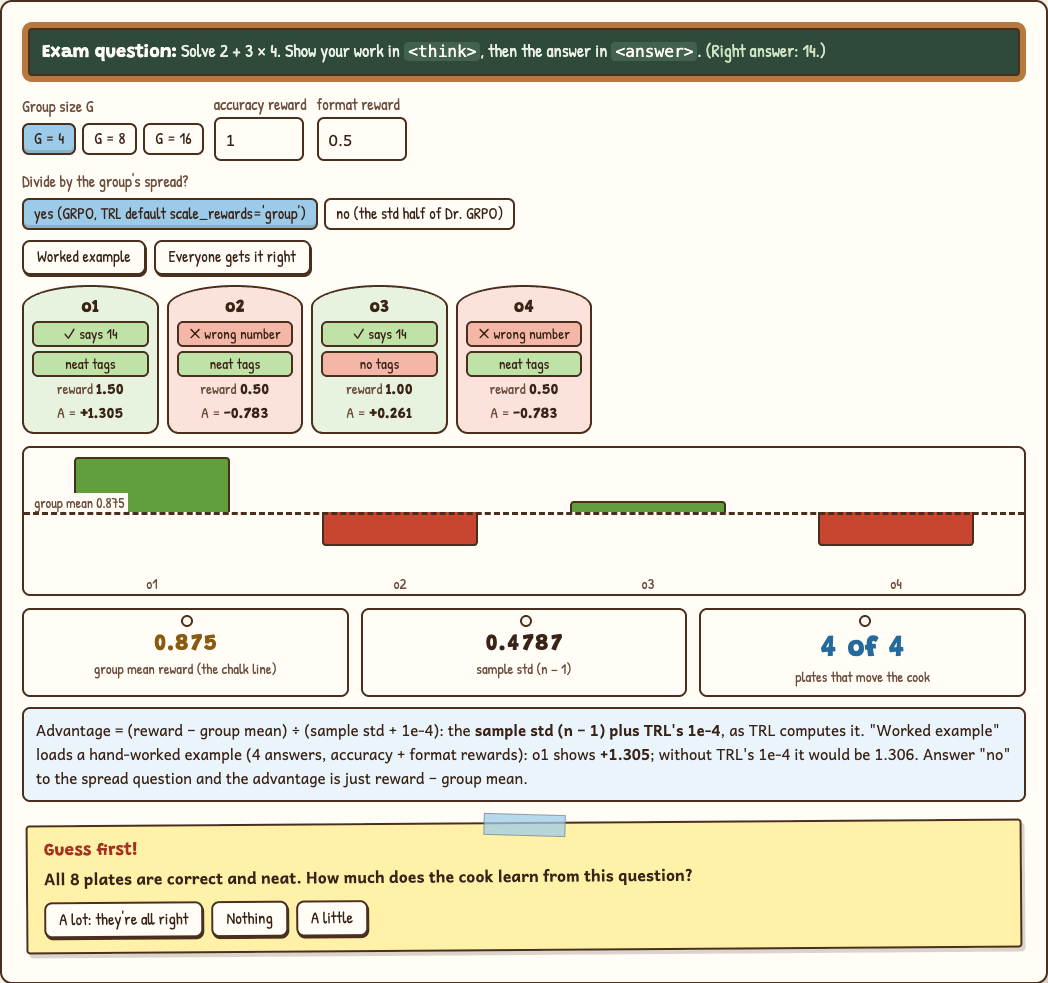
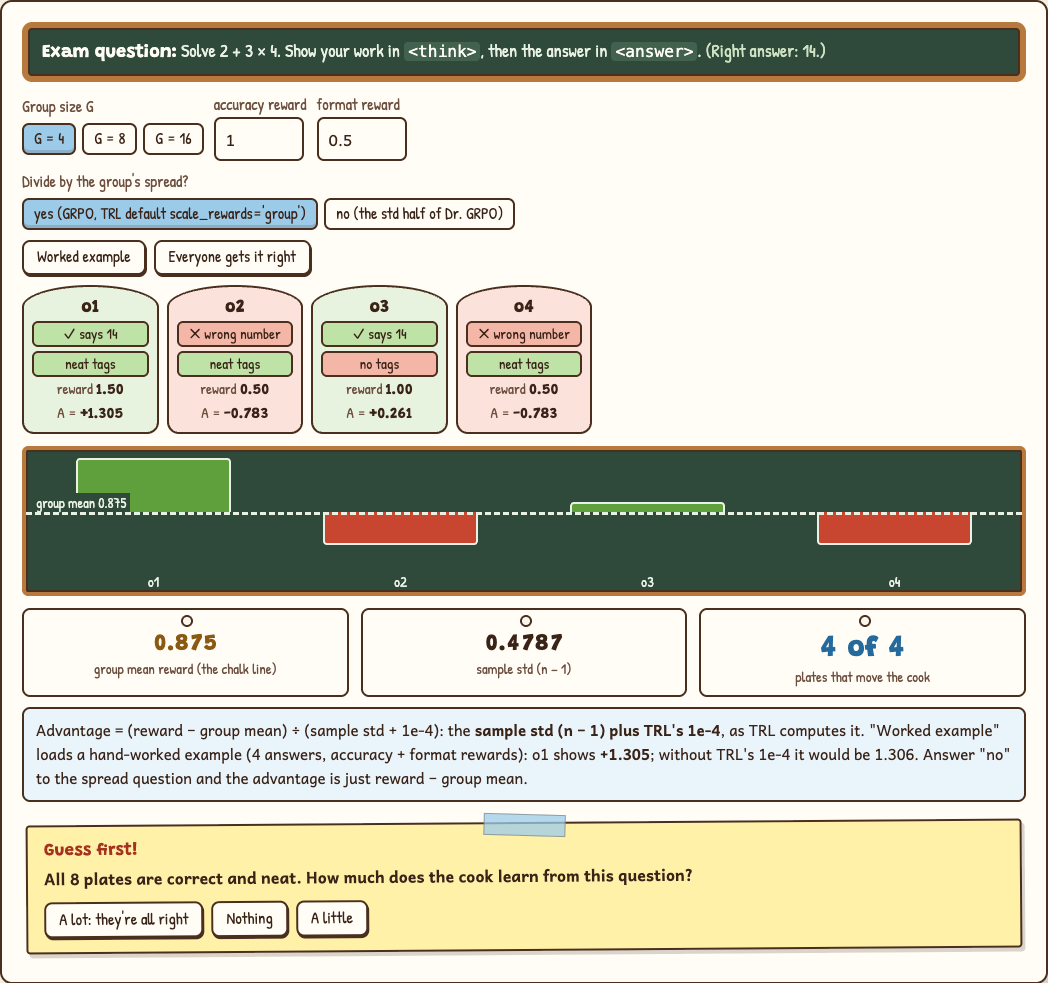
Design pass: lit floors, a chalkboard chart, and a diploma
Step 0's cutaway now answers the widget: placing a signal turns that
floor's painted sign yellow (the sign is found by geometry, so the art
files are untouched). Step 6's advantage chart is drawn as the exam
hall's chalkboard: wood frame, chalk line, chalk labels. And the school
issues a diploma once all three clients are hired and the field test
scores 6/8 or better, dated locally, printable on its own page.

Changed region(s): [[0.0, 0.4273, 0.9771, 0.6104]]

diff --git a/js/app.js b/js/app.js
@@ -16,7 +16,9 @@
 
   /* ---------------- persistence (never required) ---------------- */
   var KEY = "finishing-school-v1";
-  var store = { predicts: {}, touched: {}, said: {}, briefs: {}, ft: {}, ladder: {} };
+  var store = { predicts: {}, touched: {}, said: {}, briefs: {}, ft: {}, ladder: {}, meta: {} };
+  var MONTHS = ["January", "February", "March", "April", "May", "June", "July", "August", "September", "October", "November", "December"];
+  function longDate(d) { return ("0" + d.getDate()).slice(-2) + " " + MONTHS[d.getMonth()] + " " + d.getFullYear(); }
   try { var raw = localStorage.getItem(KEY); if (raw) { var got = JSON.parse(raw); if (got && typeof got === "object") Object.keys(store).forEach(function (k) { if (got[k] && typeof got[k] === "object") store[k] = got[k]; }); } } catch (e) {}
   function save() { try { localStorage.setItem(KEY, JSON.stringify(store)); } catch (e) {} }
 
@@ -61,6 +63,7 @@
     try { history.replaceState(null, "", "#" + id); } catch (e) {}
     window.scrollTo(0, 0);
     if (id === "s3") s3fitLabels();
+    if (id === "s0") s0lightFloors();
   }
 
   /* ---------------- engagement: predict + say ---------------- */
@@ -163,6 +166,29 @@
     { id: "sft", floor: "1st floor", name: "Copying Class · SFT", need: "The copying class needs a finished answer to copy, word for word." }
   ];
   var s0 = { sel: null };
+  /* The cutaway answers the widget: when a floor is lit, its painted sign in the scene turns
+     school-bus yellow. The sign is found by geometry (the smallest rect around the floor's name),
+     so the art files stay untouched. */
+  var FLOOR_TEXT = { grpo: "EXAM HALL", dpo: "TASTING ROOM", sft: "COPYING CLASS" };
+  function s0lightFloors() {
+    var svg = document.querySelector("#s0 .scene svg"); if (!svg) return;
+    var texts = qa("text", svg), rects = qa("rect", svg);
+    Object.keys(FLOOR_TEXT).forEach(function (id) {
+      var txt = texts.filter(function (t) { return t.textContent === FLOOR_TEXT[id]; })[0]; if (!txt) return;
+      if (!txt._sign) {
+        var tb = txt.getBoundingClientRect(); if (!tb.width) return;
+        var cx = tb.left + tb.width / 2, cy = tb.top + tb.height / 2, area = Infinity, best = null;
+        rects.forEach(function (r) {
+          var b = r.getBoundingClientRect();
+          if (cx >= b.left && cx <= b.right && cy >= b.top && cy <= b.bottom && b.width * b.height < area && b.width < tb.width * 2.5) { area = b.width * b.height; best = r; }
+        });
+        txt._sign = best || false;
+      }
+      var lit = !!store.ladder[id];
+      txt.classList.toggle("floor-lit", lit);
+      if (txt._sign) txt._sign.classList.toggle("floor-lit", lit);
+    });
+  }
   function s0render() {
     var sigs = $("s0sigs"), rungs = $("s0rungs");
     sigs.innerHTML = ""; rungs.innerHTML = "";
@@ -203,7 +229,7 @@
     var r = RUNGS.filter(function (x) { return x.id === rungId; })[0];
     touch("s0");
     if (sg.rung === rungId) {
-      store.ladder[rungId] = sg.id; save(); s0.sel = null; s0render();
+      store.ladder[rungId] = sg.id; save(); s0.sel = null; s0render(); s0lightFloors();
       var n = Object.keys(store.ladder).length;
       out.innerHTML = n < 3 ? "<b>Lit.</b> " + r.name + " learns from " + sg.label + ". " + (3 - n) + " to go."
         : "<b>All three floors lit.</b> Copying needs answers, comparing needs pairs, the exam needs a score for each answer (here, a checker). A real model usually climbs them in order: SFT first, then DPO or GRPO on top of the SFT checkpoint.";
@@ -262,8 +288,7 @@
         ? "You are a helpful AI assistant named SmolLM, trained by Hugging Face. Your role as an assistant involves thoroughly exploring questions through a systematic thinking process before providing the final precise and accurate solutions. … (the template's long reasoning persona)"
         : "You are a helpful AI assistant named SmolLM, trained by Hugging Face.";
       /* strftime_now("%d %B %Y"), as the template prints it. The cutoff line is a constant in the template. */
-      var d = new Date(), MON = ["January", "February", "March", "April", "May", "June", "July", "August", "September", "October", "November", "December"];
-      var today = ("0" + d.getDate()).slice(-2) + " " + MON[d.getMonth()] + " " + d.getFullYear();
+      var today = longDate(new Date());
       P.push(T("<|im_start|>", "sp"), T("system", "role"), BR,
         T("## Metadata", "tpl"), BR, T("Knowledge Cutoff Date: June 2025", "tpl"), BR, T("Today Date: " + today, "tpl"), BR,
         T("Reasoning Mode: " + (mode.on ? "/think" : "/no_think"), "think"), BR, BR,
@@ -668,6 +693,19 @@
     var done = capAllDone();
     $("capstamp").hidden = !done;
     if (done && !store.said.cap) { store.said.cap = true; save(); buildNav(); markNav(); }
+    checkDiploma();
+  }
+  /* The diploma: all three clients hired and a field test of 6/8 or better. Dated the first time it's earned. */
+  function checkDiploma() {
+    var card = $("dipcard"); if (!card) return;
+    var ok = capAllDone() && (store.meta.ftBest || 0) >= 6;
+    if (ok && !store.meta.diploma) { var n = new Date(); store.meta.diploma = n.getFullYear() + "-" + ("0" + (n.getMonth() + 1)).slice(-2) + "-" + ("0" + n.getDate()).slice(-2); save(); }   // local date, not UTC
+    card.hidden = !ok;
+    if (ok) {
+      var p = String(store.meta.diploma).split("-"), d = new Date(+p[0], +p[1] - 1, +p[2]);
+      $("dipdate").textContent = "Awarded " + longDate(d);
+      $("dipscore").textContent = "Field test " + store.meta.ftBest + " / " + FT.length;
+    }
   }
   function capCard(b) {
     var st = capState[b.id] = { method: "sft", model: "smollm3-3b", lora: false, machine: "t4", beta: 4, G: 8, data: "all" };
@@ -764,10 +802,15 @@
         if (ok) score++;
         $("ftr" + i).innerHTML = v === "" ? '<span class="muted">skipped</span>' : ok ? '<span class="ok">✓ right</span>' : '<span class="bad">✗</span> <span class="muted">answer: ' + esc(truth) + "</span>";
       });
+      store.meta.ftBest = Math.max(store.meta.ftBest || 0, score);
       save();
       $("ftscore").innerHTML = "<b>" + score + " / " + FT.length + "</b>" + (score === FT.length ? " · you're finished." : score >= 6 ? " · nearly there." : "");
       if (score >= 6 && !store.said.ft) { store.said.ft = true; save(); buildNav(); markNav(); }
+      checkDiploma();
+      if (!$("dipcard").hidden && score >= 6) $("dipcard").scrollIntoView({ behavior: "smooth", block: "start" });
     };
+    $("dipprint").onclick = function () { window.print(); };
+    checkDiploma();
     $("reset").onclick = function () { try { localStorage.removeItem(KEY); } catch (e) {} try { history.replaceState(null, "", location.pathname); } catch (e) {} location.reload(); };
   }
 

diff --git a/index.html b/index.html
@@ -438,6 +438,30 @@ STORY: meet the school, then work its order ticket, red pen, sticky notes, tasti
     <p class="lede">Eight questions, each answered by <b>setting up a widget</b> in steps 2–6 the way the question says and reading off the result. Graded instantly, with rounding tolerance.</p>
     <div id="ftq"></div>
     <div class="btnrow"><button class="act" id="ftgo" type="button">Grade me</button><span id="ftscore" class="muted" style="align-self:center"></span></div>
+    <p class="lede sm mt8 muted">Hire all three clients in Graduation and score 6 or better here, and the school issues your diploma.</p>
+  </div>
+  <div class="card dip-card" id="dipcard" hidden>
+    <div class="diploma">
+      <div class="dip-in">
+        <div class="dip-school">Finishing School</div>
+        <div class="dip-title">Diploma</div>
+        <p class="dip-body">This certifies that the bearer has finished a raw model by hand: copied the master's plates in the <b>copying class</b> (SFT), judged two plates in the <b>tasting room</b> (DPO), marked a group of answers against their own average in the <b>exam hall</b> (GRPO), and hired out three graduates on the right signal, within memory and within budget.</p>
+        <div class="dip-row">
+          <div class="dip-meta"><span id="dipdate"></span><span id="dipscore"></span></div>
+          <svg class="dip-seal" viewBox="0 0 92 110" aria-hidden="true">
+            <path d="M30 60l-12 44 16-9 8 15 10-38z" fill="#A5321F" stroke="#4A2E1E" stroke-width="2.5" stroke-linejoin="round"/>
+            <path d="M62 60l12 44-16-9-8 15-10-38z" fill="#A5321F" stroke="#4A2E1E" stroke-width="2.5" stroke-linejoin="round"/>
+            <path d="M46 6l6 8 9-4 2 10 10 2-4 9 8 6-8 6 4 9-10 2-2 10-9-4-6 8-6-8-9 4-2-10-10-2 4-9-8-6 8-6-4-9 10-2 2-10 9 4z" fill="#C8452F" stroke="#4A2E1E" stroke-width="2.5" stroke-linejoin="round"/>
+            <circle cx="46" cy="43" r="22" fill="none" stroke="#FBF7EC" stroke-width="1.8" stroke-dasharray="3 3"/>
+            <path d="M32 40l14-7 14 7-14 7z" fill="#F4C430" stroke="#4A2E1E" stroke-width="2" stroke-linejoin="round"/>
+            <path d="M38 43v7c0 3 16 3 16 0v-7" fill="#FBF7EC" stroke="#4A2E1E" stroke-width="2" stroke-linejoin="round"/>
+            <path d="M60 41v8" stroke="#4A2E1E" stroke-width="2" stroke-linecap="round"/>
+          </svg>
+        </div>
+        <div class="dip-line">Pick the class by the signal the client already has.</div>
+      </div>
+    </div>
+    <div class="btnrow"><button class="ghost" id="dipprint" type="button">Print the diploma</button><span class="muted hand" style="align-self:center">It prints on its own page.</span></div>
   </div>
   <div class="card">
     <h3>What's exact and what's a teaching model</h3>

diff --git a/css/styles.css b/css/styles.css
@@ -438,3 +438,35 @@ code{overflow-wrap:anywhere}
 /* sources */
 .srcs{margin:6px 0 10px 20px;font-size:15px}
 .srcs li{margin:4px 0}
+
+/* ---- Finishing School additions, second pass (25 Sep 2026) ---- */
+:root{--chalkboard:#2F4A3A;--chalk:#E9F1E4}
+/* The exam hall's advantage chart is a real chalkboard, like the one in the scene: wood frame, chalk line, chalk labels. */
+.advchart{background:var(--chalkboard);border:4px solid var(--wood);box-shadow:inset 0 0 0 2px var(--line);border-radius:6px}
+.advchart .chalk{border-top:3px dashed var(--chalk)}
+.advchart .chalk span{color:var(--chalk);background:var(--chalkboard)}
+.acol i{border-color:var(--chalk)}
+.acol i.pos{background:var(--grass)}
+.acol i.neg{background:var(--brick)}
+.acol .an{color:var(--chalk)}
+/* Step 0: a lit floor's painted sign turns school-bus yellow inside the cutaway. */
+.scene svg rect.floor-lit{fill:var(--yellow);transition:fill .35s}
+.scene svg text.floor-lit{fill:var(--ink)}
+/* The diploma */
+.dip-card{background:var(--paper)}
+.diploma{background:var(--sheet);border:var(--stroke);border-radius:10px;padding:8px;box-shadow:var(--lift)}
+.dip-in{border:4px double var(--wood);border-radius:6px;padding:20px 22px 16px;text-align:center;background:#FFF6DC;position:relative}
+.dip-school{font:800 34px/1.1 var(--sign);color:var(--brick-d);letter-spacing:.01em}
+.dip-title{font:400 20px/1.2 var(--hand);color:var(--soft);text-transform:uppercase;letter-spacing:.28em;margin-top:2px}
+.dip-body{font:400 16.5px/1.55 var(--body);color:var(--ink);max-width:640px;margin:14px auto 0;text-align:left}
+.dip-row{display:flex;align-items:center;justify-content:space-between;gap:16px;margin-top:10px;max-width:640px;margin-left:auto;margin-right:auto}
+.dip-meta{display:flex;flex-direction:column;gap:2px;font:400 17px var(--hand);color:var(--soft);text-align:left}
+.dip-seal{width:78px;height:auto;flex:none;transform:rotate(6deg)}
+.dip-line{margin-top:6px;font:400 17px var(--hand);color:var(--ink);border-top:2px dashed var(--rule);padding-top:10px;max-width:640px;margin-left:auto;margin-right:auto}
+@media(max-width:600px){.dip-school{font-size:28px}.dip-in{padding:16px 14px 12px}.dip-seal{width:64px}}
+@media print{
+  header,nav,footer,#tip,.swipe-hint,section:not(#ft),#ft .card:not(.dip-card),.dip-card .btnrow{display:none!important}
+  section#ft{display:block!important;animation:none!important}
+  body{background:#fff;padding:0}.wrap{max-width:none;padding:0}
+  .dip-card{border:0;box-shadow:none;background:#fff;padding:0}.diploma{box-shadow:none}
+}

diff --git a/README.md b/README.md
@@ -20,7 +20,7 @@ The model is a young **cook**. SFT is the **copying class**, the chat template i
 | **5 · The day-one photo** | Reference model, cached log-probs, LoRA, group size, the KL switch | What each method costs per example, and why LoRA makes the reference model free |
 | **6 · The exam hall** | A group of plates, a verifier's rewards, the clip ε, the KL leash, and dividing by the group's spread (or not, as Dr. GRPO argues) | **The group is the critic.** A group that all scores the same teaches nothing; dividing by the group's spread can make a trivial gap push as hard as a real one |
 | **★ Graduation** | Three client briefs (a bank's help desk, an agency's headline polisher, a SQL answer bot), graded on method, data, memory and budget | You can make the call, and say why the wrong one fails |
-| **✓ Field test** | Eight questions you answer by operating the widgets | Proof it stuck |
+| **✓ Field test** | Eight questions you answer by operating the widgets | Proof it stuck. Hire all three clients and score 6 or better, and the school issues a printable diploma |
 
 Each step has predict-then-reveal questions and a "say it out loud" line that unlocks once you've played. Every term has a tooltip with its plain meaning and its school equivalent.
 

diff --git a/ACCEPTANCE.md b/ACCEPTANCE.md
@@ -37,6 +37,8 @@ Written before the build (2026-09-25). Numeric checks are asserted against `wind
 
 - C1 Three client briefs (brand-voice bank bot → SFT; editor A/B headlines → DPO; SQL bot with a checker → GRPO). Each has a known-good plan that passes, and named known-bad plans that fail for the **stated** reason: wrong signal for the method, too few pairs, β too small, G = 1, a model too small to ever solve the task (all-zero groups), doesn't fit the machine (full-weight DPO counts its second, frozen reference copy), paid hardware on a zero budget.
 - C2 A field test of 8 questions answered by operating the widgets, graded automatically.
+- C3 A diploma card appears once all three clients are hired and the best field-test score is 6/8 or better; it carries the local award date and the score, and prints on its own page.
+- C4 In step 0, lighting a floor in the widget turns that floor's painted sign yellow inside the cutaway scene (the sign is found by geometry; the art files are unchanged).
 
 ## D. It works
 
